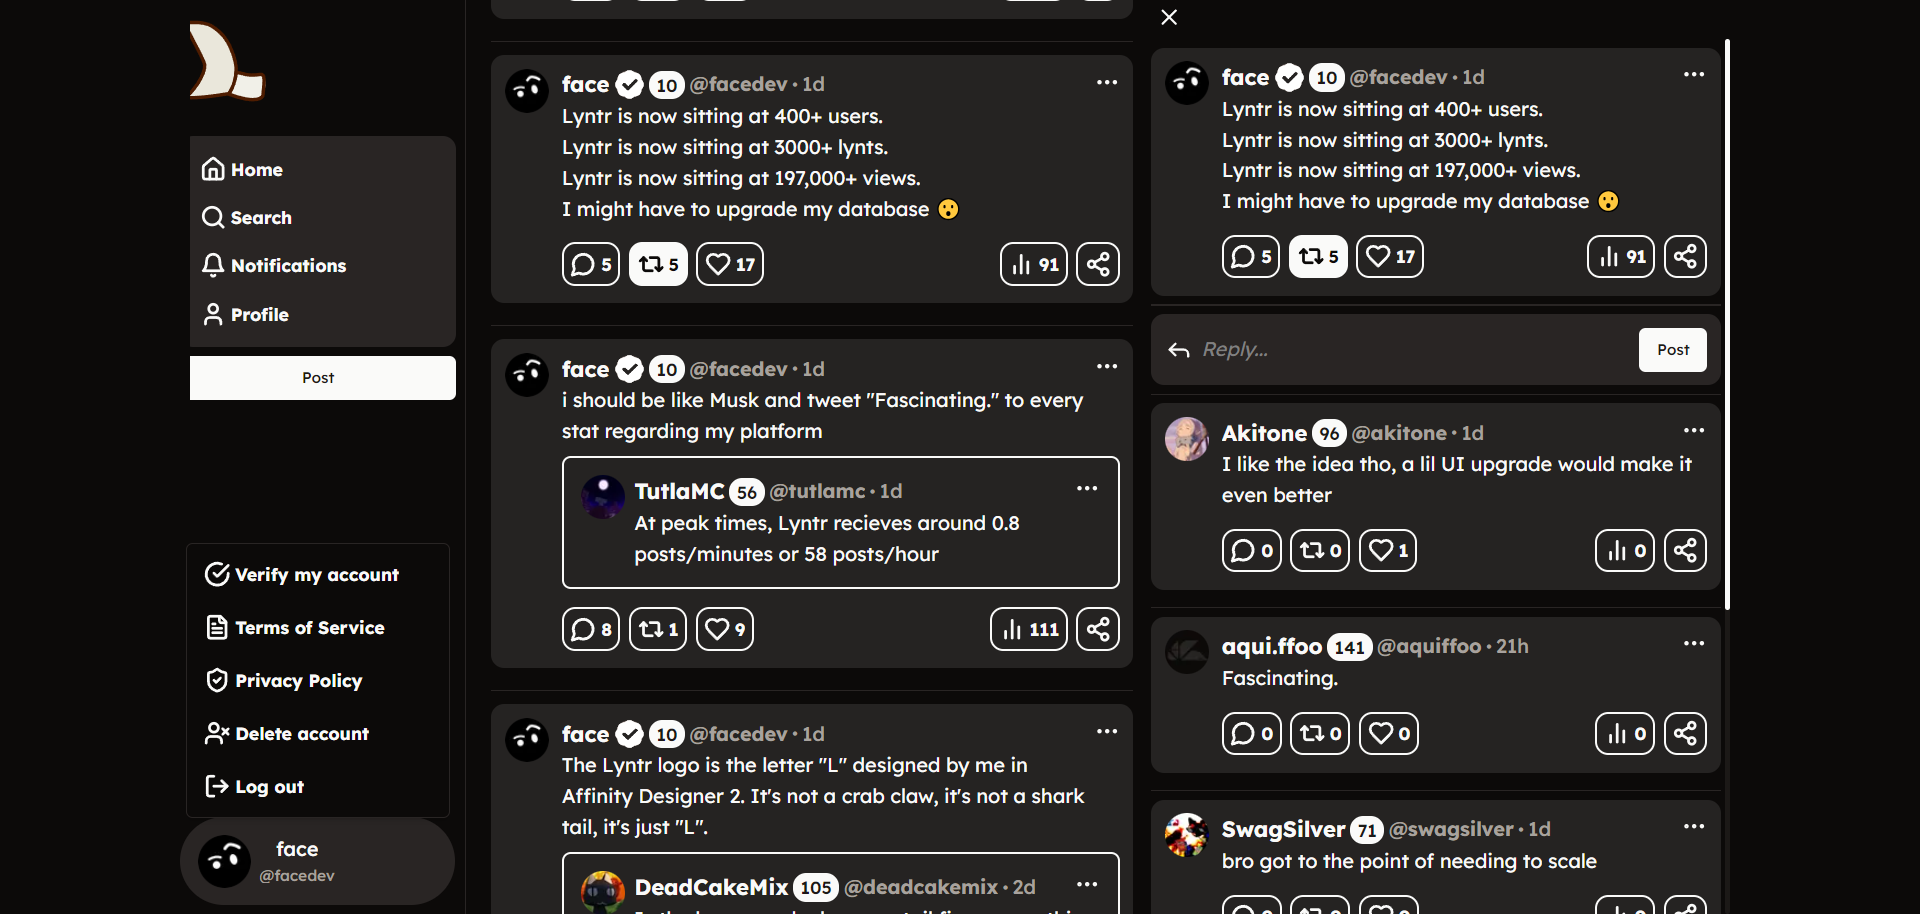
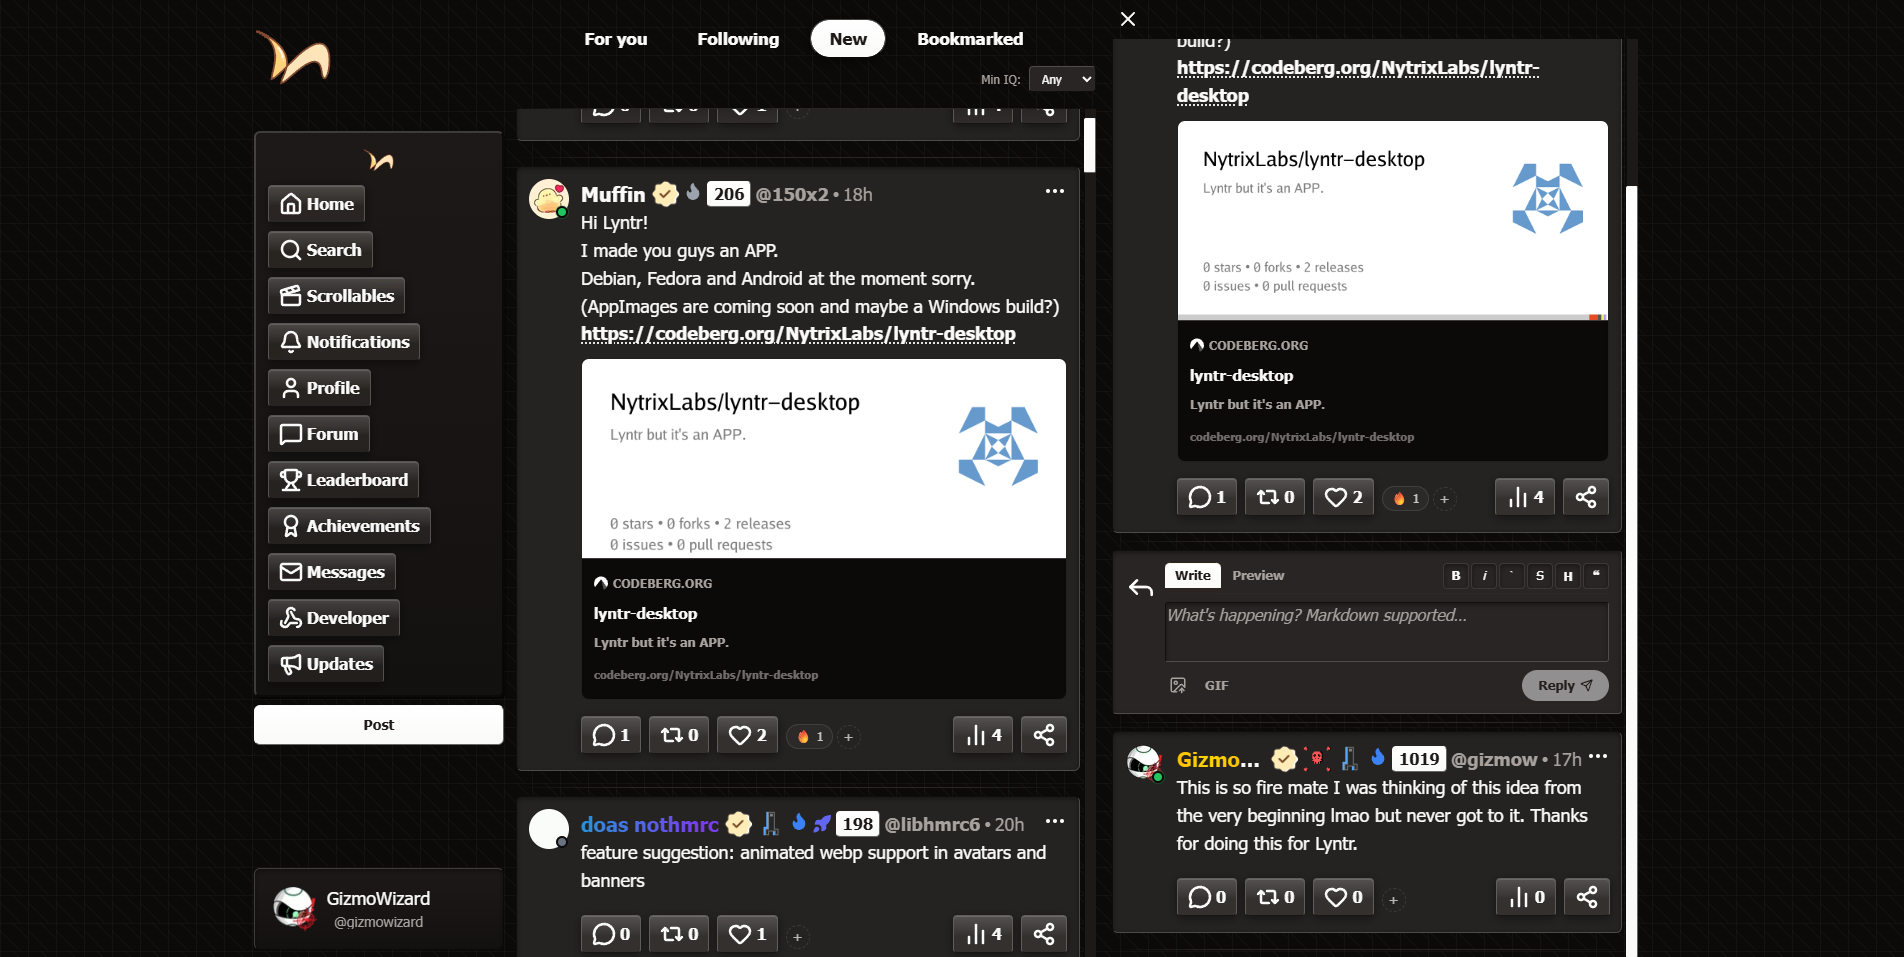
update screenshots and README(part 1)

diff --git a/README.md b/README.md
@@ -2,7 +2,27 @@
 
 Official open source repository for [lyntr](https://1lyn.tr). Changes to this README to improve it are greatly appreciated.
 
+## Built with
+
+- **Frontend:** SvelteKit + Svelte 5
+- **Language:** TypeScript
+- **Styling:** Tailwind CSS
+- **Database:** PostgreSQL / Supabase
+- **ORM:** Drizzle
+- **Realtime:** WebSockets
+- **Object storage:** MinIO
+- **Caching / rate limiting:** Upstash Redis
+- **Deployment:** Docker
+
 The official Discord server for all things Lyntr can be found here: https://discord.gg/y5PA8uS5Tj
+
+## Screenshots
+
+<p align="center">
+  <img src="github-assets/banner.png" width="48%">
+  <img src="github-assets/banner_white.png" width="48%">
+  <img src="github-assets/banner_mobile.png">
+</p>
 
 ### Please refer to the [MIT License](https://opensource.org/license/mit) for more license information.
 
